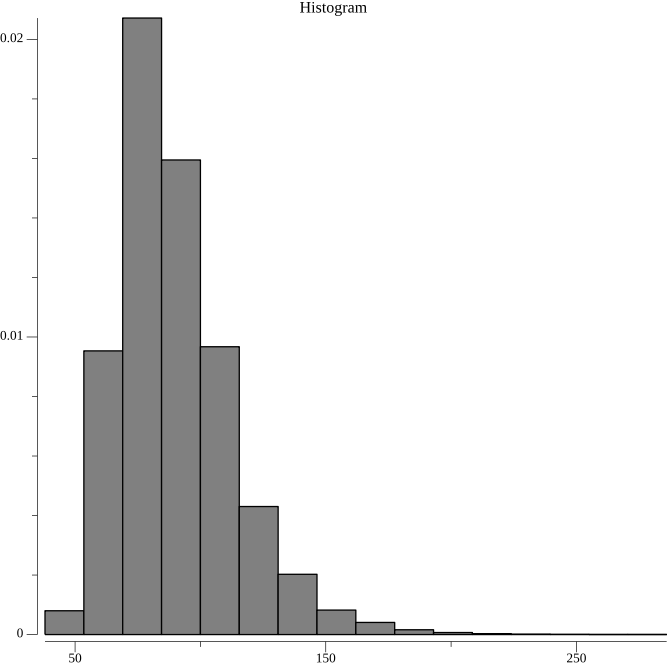
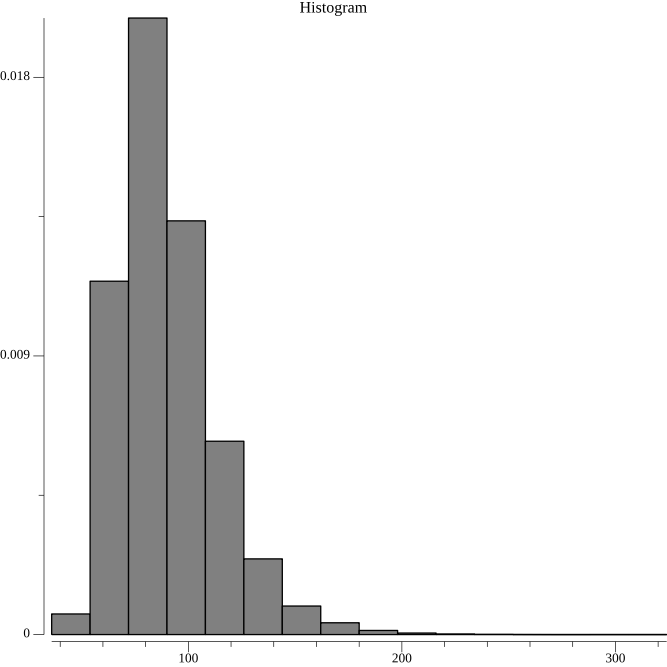
Create readme

diff --git a/README.md b/README.md
@@ -1,0 +1,23 @@
+# Animal Crossing: New Horizons Fossil Simulator
+
+This is a lazily-written simulation that calculates the average number of in-game days to collect all fossils in Animal Crossing: New Horizons for the Nintendo Switch. This simulation is written in Go, and uses the following assumptions:
+
+1. The player plays each day, meaning that there are four new fossils generated each day.
+2. Each fossil generated is chosen from the set of all fossils. (I have no idea if this is true)
+
+Here's a 5 figure summary of the distribution:
+
+```
+Minimum: 36
+1st Quartile (Q1): 73
+Median: 85
+3rd Quartile (Q3): 101
+Maximum: 324
+Mean: 89.37
+Most common: 78, which happened 0.02% of the time
+Function took 1.619366667s
+```
+
+Here's what the final distribution looked like when I simulated 10,000 playthroughs.
+
+![Right-tailed histogram with an average near 90 days](histogram.png)
